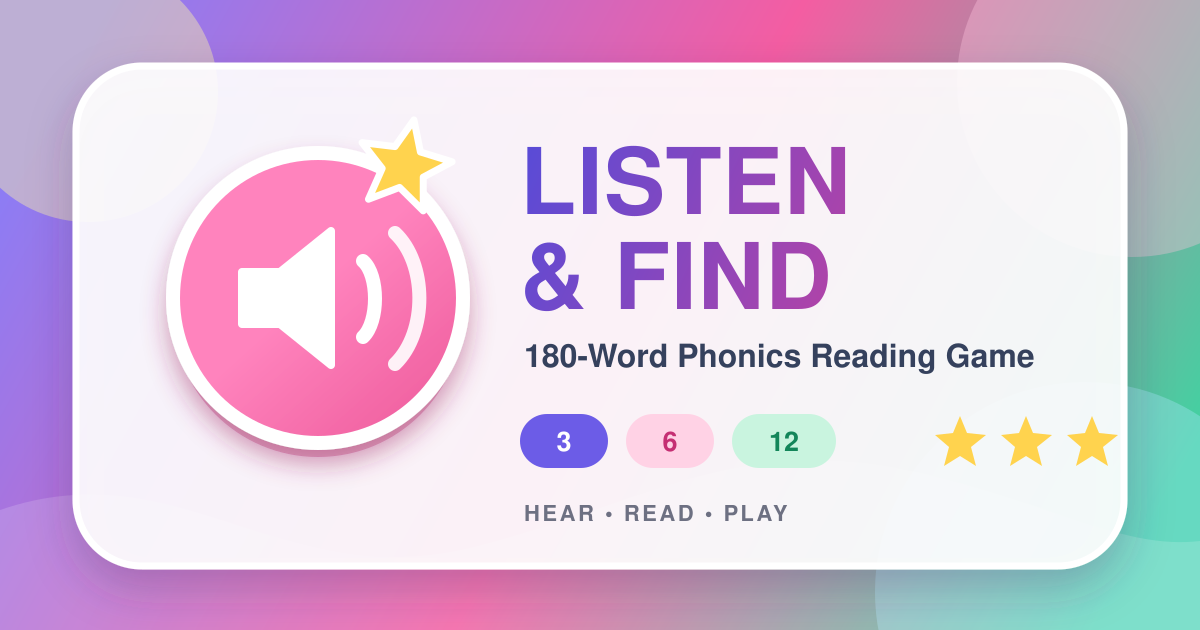
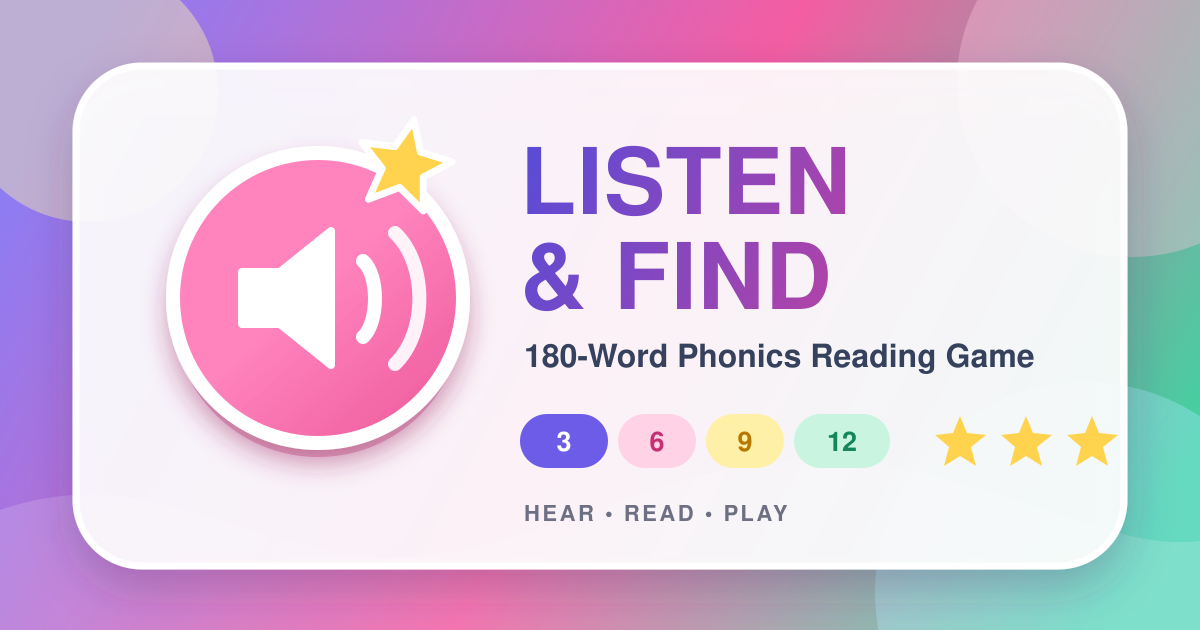
Add 3-6-9-12 card progression

Changed region(s): [[0.4933, 0.6333, 0.74, 0.754]]

diff --git a/word-game/index.html b/word-game/index.html
@@ -297,9 +297,11 @@
     }
 
     .choices[data-count="6"] .choice-word,
+    .choices[data-count="9"] .choice-word,
     .choices[data-count="12"] .choice-word { font-size: clamp(1.15rem, 3.6vw, 2.15rem); }
 
     .choices[data-count="6"] .choice-emoji,
+    .choices[data-count="9"] .choice-emoji,
     .choices[data-count="12"] .choice-emoji { font-size: clamp(1rem, 3vw, 1.75rem); opacity: .63; }
 
     .card-back {
@@ -615,6 +617,7 @@
       <div class="levels" id="levels" aria-label="Difficulty level">
         <span class="level-pill active">3</span>
         <span class="level-pill">6</span>
+        <span class="level-pill">9</span>
         <span class="level-pill">12</span>
       </div>
       <button class="sound-toggle" id="soundToggle" type="button" aria-label="Turn sound effects off">♪</button>
@@ -645,7 +648,7 @@
   <div class="sr-only" id="liveStatus" role="status" aria-live="polite"></div>
 
   <script>
-    const LEVEL_COUNTS = [3, 6, 12];
+    const LEVEL_COUNTS = [3, 6, 9, 12];
     const CARD_COLORS = ["#fff0a8", "#c9f4df", "#cfe7ff", "#f8d2e7", "#e5d7ff", "#ffd7ba", "#d7f3f5", "#f5e6b8", "#dce7ff"];
     const CARD_BACK_SYMBOLS = ["★", "A", "B", "C", "✦", "a", "b", "c", "♪"];
 
